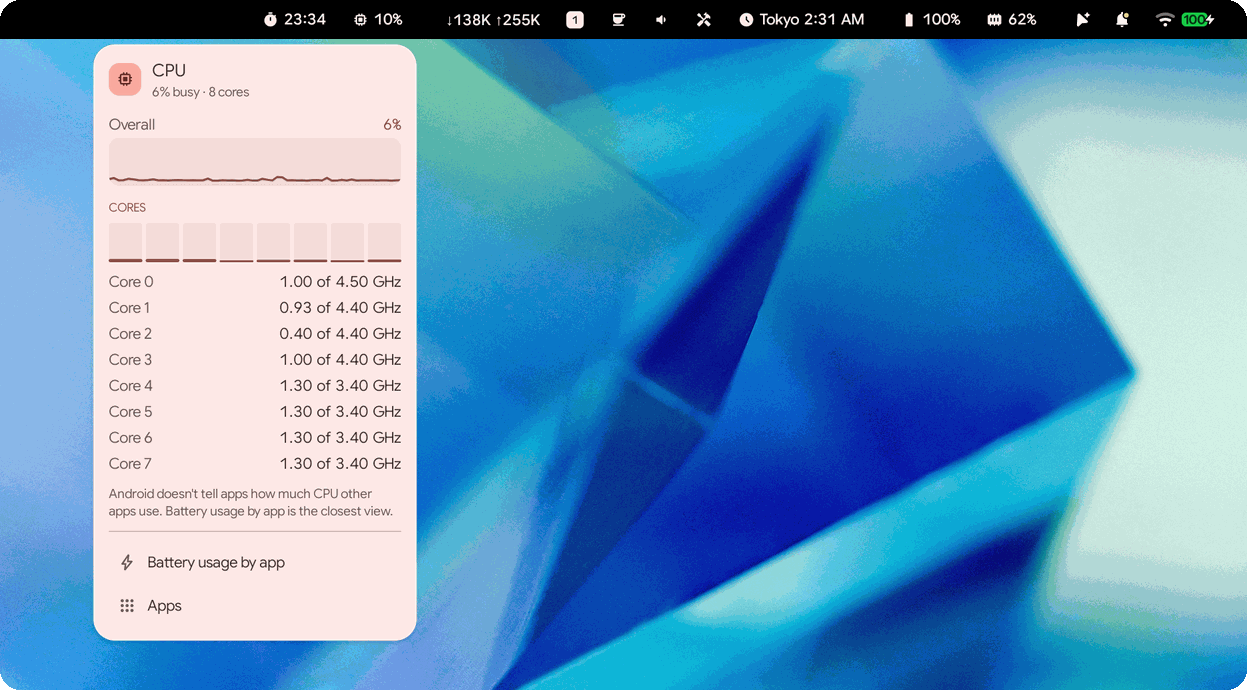
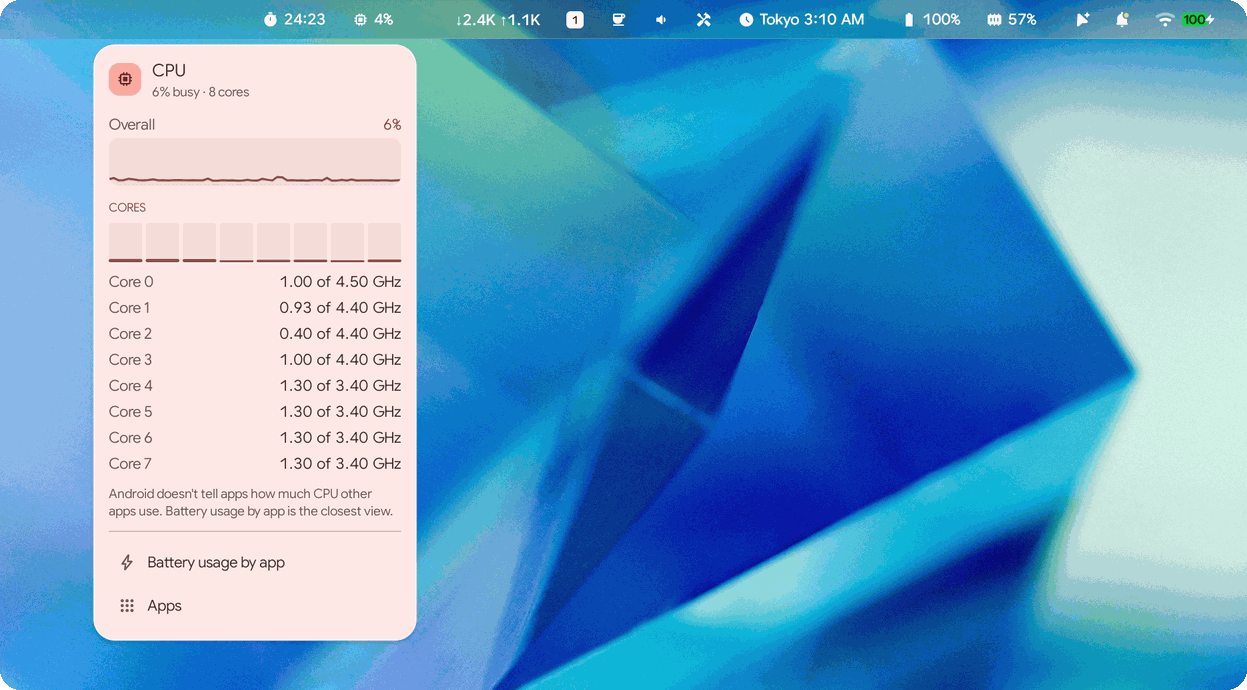
README: bar screenshots with the see-through bar (no maximized app), like the other images
The Acer's status bar is black only while an app is maximized; the first captures had Chrome
maximized. CLAUDE.md now says so.

Changed region(s): [[0.0, 0.0, 1.0, 0.0609]]

diff --git a/tools/readme_images.py b/tools/readme_images.py
@@ -98,8 +98,8 @@ def main():
     menu = load("win_cpu.png")
     h = frame[1] + menu.height + 36
     if (RAW / "wallpaper.png").exists():
-        # An opaque status bar (the Acer's is black) says nothing about the wallpaper under it: use
-        # the wallpaper itself (screen-sized, as the screen shows it) below the bar.
+        # The wallpaper itself (screen-sized, as the screen shows it) below the bar, rather than the
+        # bar's colours continued: needed under an opaque bar (the Acer's, while an app is maximized).
         hero = load("wallpaper.png").crop((x0, 0, 1920, h))
     else:
         hero = wallpaper(bar, h).convert("RGBA")

diff --git a/CLAUDE.md b/CLAUDE.md
@@ -76,7 +76,8 @@ plain APK: no adb grants, root or system changes in the product (the user's hard
 
 ## Things learned the hard way (see docs/research/device-findings.md)
 - **The status bar window can be opaque.** On the HP it's glyphs on transparent; on the Acer
-  Googlebook 14 it's white glyphs on its own black. The colour sampler tells background and text
+  Googlebook 14 it's white glyphs on its own black while an app is maximized, and see-through over
+  the wallpaper (like the HP) otherwise. The colour sampler tells background and text
   apart (`barColors`), decides dark/light from the background, and `bar/Contrast.kt` holds every
   strip colour to 4.5:1, with pure black as the last fallback for mid grays where neither white nor
   near-black reaches it (`ContrastTest.everyOpaqueBarReaches45` sweeps every gray and a color grid).
